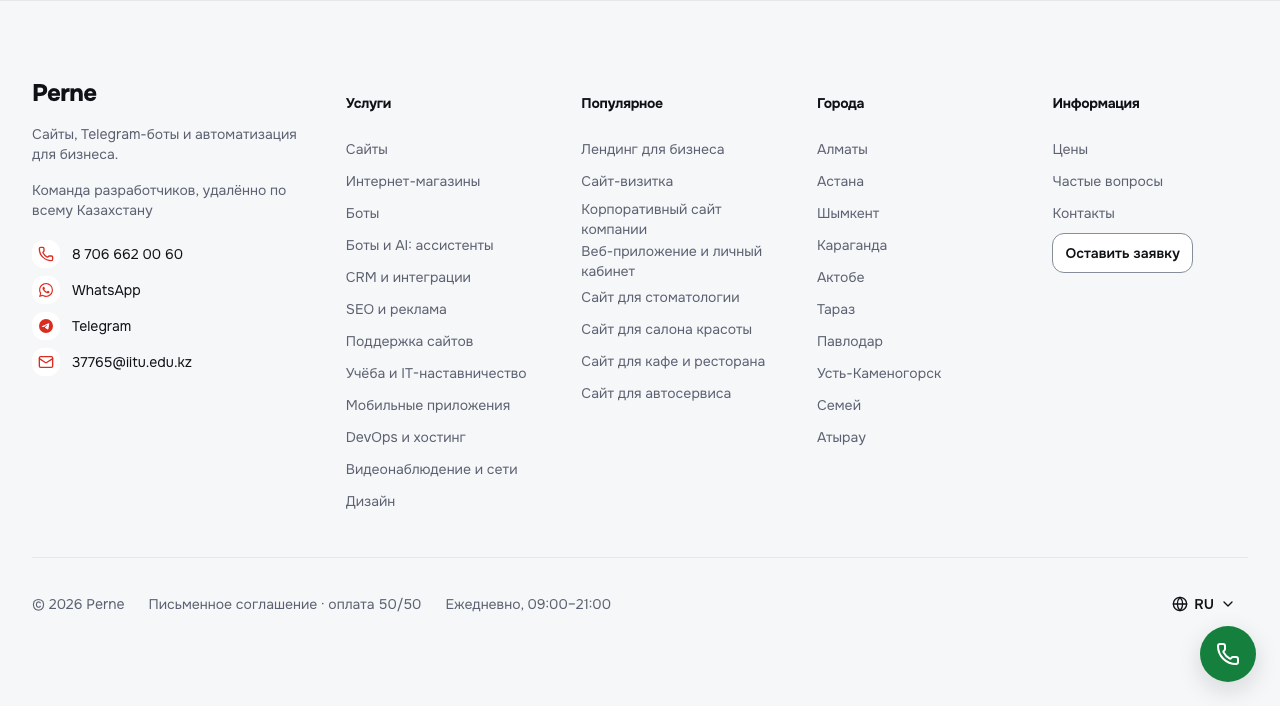
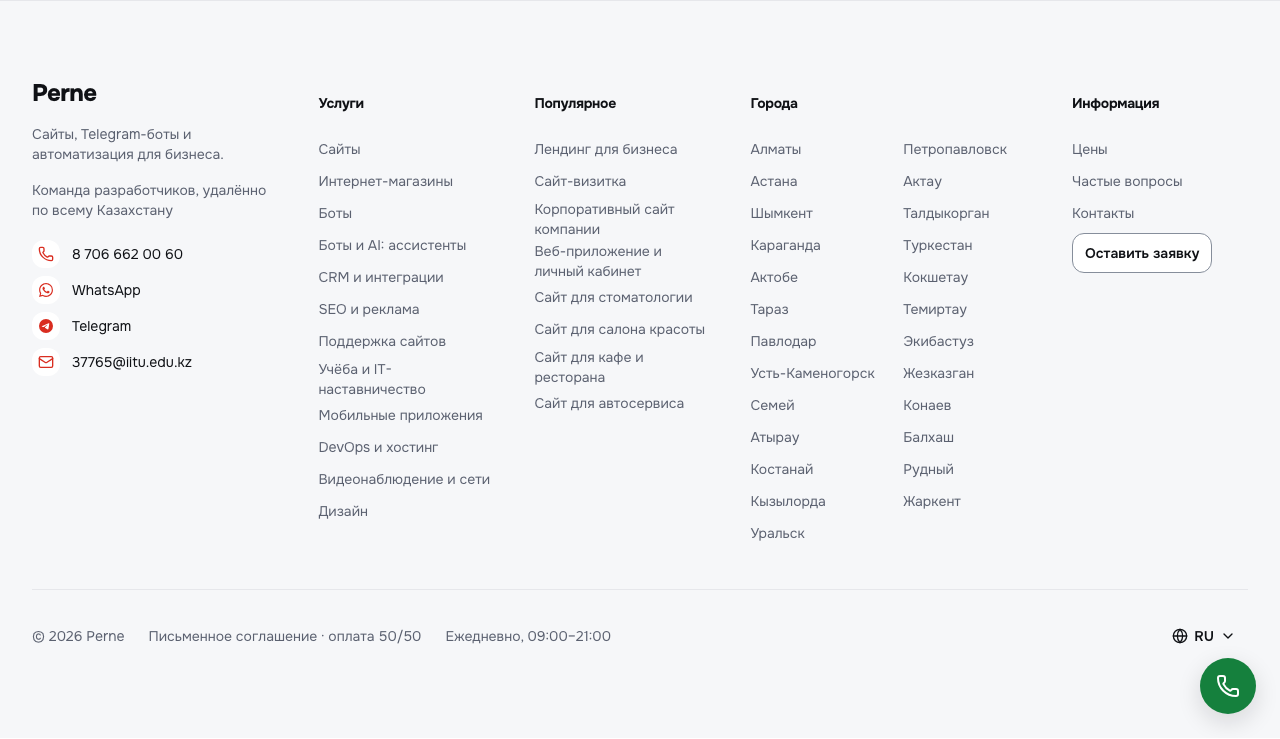
Footer lists all cities in two columns; сайт-визитка back to the category factor

diff --git a/frontend/components/features/layout/Footer.tsx b/frontend/components/features/layout/Footer.tsx
@@ -10,11 +10,11 @@ import { FooterColumn } from './FooterColumn';
 import { loadFooterLinks } from './footerData';
 import { FooterNav, type FooterLink } from './FooterNav';
 
-function Column({ title, links, extra, label }: { title: string; links: FooterLink[]; extra?: ReactNode; label: string }) {
+function Column({ title, links, extra, label, twoColumns }: { title: string; links: FooterLink[]; extra?: ReactNode; label: string; twoColumns?: boolean }) {
   if (links.length === 0 && !extra) return null;
   return (
     <FooterColumn title={title}>
-      <FooterNav label={label} links={links} extra={extra} />
+      <FooterNav label={label} links={links} extra={extra} twoColumns={twoColumns} />
     </FooterColumn>
   );
 }
@@ -34,11 +34,11 @@ export async function Footer({ lang, hasReviews }: { lang: Lang; hasReviews: boo
   return (
     <footer className="mt-16 border-t border-line bg-surface-200 pb-24 pt-12 md:pb-12 lg:py-20">
       <Container>
-        <div className="grid gap-x-10 gap-y-8 md:grid-cols-2 lg:grid-cols-[1.4fr_1fr_1fr_1fr_1fr]">
+        <div className="grid gap-x-10 gap-y-8 md:grid-cols-2 lg:grid-cols-[1.4fr_1fr_1fr_1.6fr_1fr]">
           <FooterBrand lang={lang} />
           <Column title={d.footer.services} links={sets.services} label={lbl(d.footer.services)} />
           <Column title={d.footer.popular} links={sets.popular} label={lbl(d.footer.popular)} />
-          <Column title={d.footer.cities} links={sets.cities} label={lbl(d.footer.cities)} />
+          <Column title={d.footer.cities} links={sets.cities} label={lbl(d.footer.cities)} twoColumns />
           <Column
             title={d.footer.info}
             links={info}

diff --git a/frontend/components/features/layout/FooterNav.tsx b/frontend/components/features/layout/FooterNav.tsx
@@ -10,12 +10,12 @@ export const footerLinkClass =
   'inline-flex min-h-11 items-center rounded-sm text-sm text-muted-foreground no-underline transition-colors duration-fast hover:text-foreground hover:underline focus-visible:outline-none focus-visible:ring-2 focus-visible:ring-ring md:min-h-8';
 
 /** One navigation landmark with a list of links; `extra` renders as a last list item. */
-export function FooterNav({ label, links, extra }: { label: string; links: FooterLink[]; extra?: ReactNode }) {
+export function FooterNav({ label, links, extra, twoColumns }: { label: string; links: FooterLink[]; extra?: ReactNode; twoColumns?: boolean }) {
   return (
     <nav aria-label={label}>
-      <ul>
+      <ul className={twoColumns ? 'md:columns-2 md:gap-x-6' : undefined}>
         {links.map((link) => (
-          <li key={link.href}>
+          <li key={link.href} className="break-inside-avoid">
             <Link href={link.href} className={footerLinkClass}>
               {link.label}
             </Link>

diff --git a/frontend/components/features/layout/footerData.ts b/frontend/components/features/layout/footerData.ts
@@ -8,9 +8,6 @@ import type { FooterLink } from './FooterNav';
 
 const POPULAR_COUNT = 8;
 
-/** The footer lists the largest cities only; the other city pages stay in the sitemap. */
-const FOOTER_CITY_LIMIT = 10;
-
 export interface FooterLinkSets {
   services: FooterLink[];
   popular: FooterLink[];
@@ -41,6 +38,6 @@ export async function loadFooterLinks(lang: Lang): Promise<FooterLinkSets> {
     popular: products
       .slice(0, POPULAR_COUNT)
       .map((p) => ({ href: localePath(lang, `/products/${p.slug}`), label: p.title })),
-    cities: cities.slice(0, FOOTER_CITY_LIMIT).map((c) => ({ href: localePath(lang, `/city/${c.slug}`), label: c.name })),
+    cities: cities.map((c) => ({ href: localePath(lang, `/city/${c.slug}`), label: c.name })),
   };
 }

diff --git a/scripts/reprice.py b/scripts/reprice.py
@@ -12,7 +12,7 @@ FACTOR = {
     'bots': 0.55, 'ai': 0.55, 'automation': 0.55, 'seo-maps': 0.55,
     'devops': 0.6, 'support': 0.6, 'onsite': 0.65, 'education': 0.65,
 }
-OVERRIDE = {'lending': 40000, 'telegram-bot-zayavki': 25000, 'sait-vizitka': 60000}
+OVERRIDE = {'lending': 40000, 'telegram-bot-zayavki': 25000}
 
 
 def nice(value: float) -> int:

diff --git a/DESIGN_NOTES.md b/DESIGN_NOTES.md
@@ -304,7 +304,7 @@ Built by Haiku coders, every diff reviewed by the orchestrator. Existing Perne t
 ## Round 2 polish (2026-10-30)
 
 ### Prices cut to freelancer level
-`scripts/reprice.py` rewrites `price_from_kzt` in every fixture, always from the original (pre-round-2) prices in git, so it is idempotent. Factor by category: websites, ecommerce, apps, design 0.5; bots, AI, automation, SEO 0.55; devops, support 0.6; on-site and education 0.65 (floor 2 000); rounded to 500/1 000/5 000/10 000 steps. Result per category: −29…−50%, within the requested range. Three explicit values: лендинг 40 000 (−69%), Telegram-бот для заявок 25 000 (−44%), сайт-визитка 60 000 (−54%). The landing figure is outside the 35–50% band only because the requested example fixes it. The prices are estimates, not market-verified. `/prices`, cards and JSON-LD read the API, so they follow the fixtures after a reseed (`SEED=1 make dev`).
+`scripts/reprice.py` rewrites `price_from_kzt` in every fixture, always from the original (pre-round-2) prices in git, so it is idempotent. Factor by category: websites, ecommerce, apps, design 0.5; bots, AI, automation, SEO 0.55; devops, support 0.6; on-site and education 0.65 (floor 2 000); rounded to 500/1 000/5 000/10 000 steps. Result per category: −29…−50%, within the requested range. Two explicit values: лендинг 40 000 (−69%) and Telegram-бот для заявок 25 000 (−44%), both fixed by the requested examples. The landing figure is outside the 35–50% band only because the requested example fixes it. The prices are estimates, not market-verified. `/prices`, cards and JSON-LD read the API, so they follow the fixtures after a reseed (`SEED=1 make dev`).
 
 | Category | Product | Old, ₸ | New, ₸ | Change |
 |---|---|---:|---:|---:|
@@ -405,7 +405,7 @@ Built by Haiku coders, every diff reviewed by the orchestrator. Existing Perne t
 | websites | sait-dlya-yurista | 130 000 | 65 000 | -50% |
 | websites | sait-na-tilda | 90 000 | 45 000 | -50% |
 | websites | sait-na-wordpress | 200 000 | 100 000 | -50% |
-| websites | sait-vizitka | 130 000 | 60 000 | -54% |
+| websites | sait-vizitka | 130 000 | 65 000 | -50% |
 | websites | veb-prilozhenie | 200 000 | 100 000 | -50% |
 
 ### Site search approach
@@ -415,7 +415,7 @@ Prebuilt client index, not Postgres FTS + pg_trgm. Reason: ~100 products + 12 ca
 Site FAQ: 9 groups, 36 questions in `lib/faq/content/{ru,kk,en}` with identical ids; top 8 (`HOME_FAQ_IDS`) on the home page; `/faq` has FAQPage JSON-LD. Every product has 7 FAQs (3 existing + 4 new, written by a small model, ru/kk/en). Kazakh text needs a native-speaker pass. Floating contact menu: Instagram/TikTok rows appear only when `CONTACTS` has values.
 
 ### Footer
-Cities column shows the 10 largest cities (all 31 made the footer very tall). Working hours come from `WORKING_HOURS` (default 09:00–21:00).
+Cities column lists every city page (25) in two columns on desktop, so the footer stays compact. Working hours come from `WORKING_HOURS` (default 09:00–21:00).
 
 ### Verification
 Playwright (1280 and 375): contact pills equal width and 48px height; combobox filters "бот"; Ctrl+K opens search and "телеграм" returns Telegram bots; nav centre 640 = viewport centre 640; hero video muted and playing, poster only under reduced motion. Lighthouse mobile home on the final build (two runs): performance 1.00, LCP 1.1 s, TBT 20–30 ms, CLS 0 (an earlier build scored 0.88). Footer at 1280: brand column + 4 link columns (Услуги 12, Популярное 8, Города 10, Информация 4). Screenshots: `screenshots/r2-*.png`.
